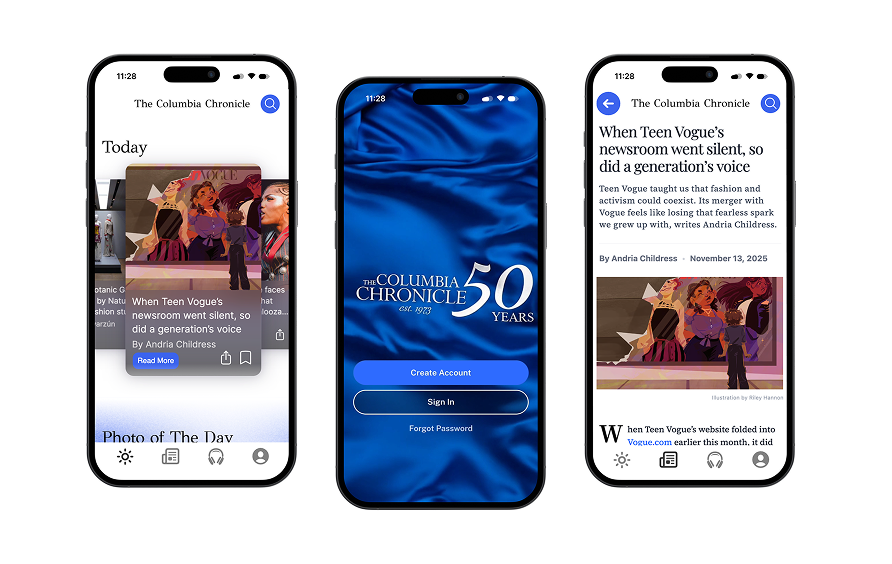
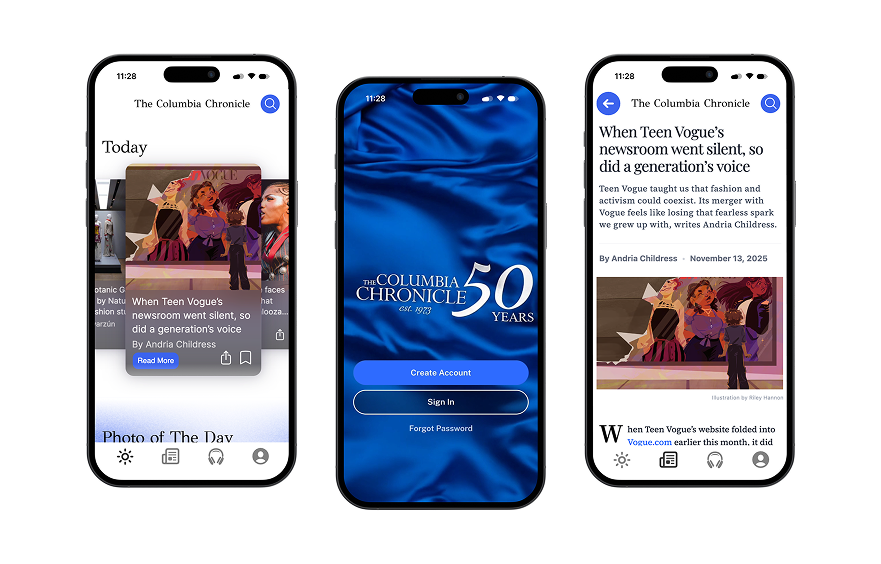
Mobile polish: center Chronicle card image, thin hamburger lines

Changed region(s): [[0.3678, 0.0904, 0.9194, 0.9043], [0.0919, 0.0904, 0.3371, 0.8741], [0.4597, 0.3617, 0.4904, 0.3918]]

diff --git a/nav.js b/nav.js
@@ -14,9 +14,9 @@
     btn.setAttribute('aria-controls', links.id);
     btn.setAttribute('aria-label', 'Toggle menu');
     btn.innerHTML = '<svg class="nav__toggle-icon" viewBox="0 0 28 20" aria-hidden="true" focusable="false">' +
-      '<path d="M3.2 3 C 8 1.1, 20 1.1, 24.8 3 C 20 4.9, 8 4.9, 3.2 3 Z"/>' +
-      '<path d="M3.2 10 C 8 8.1, 20 8.1, 24.8 10 C 20 11.9, 8 11.9, 3.2 10 Z"/>' +
-      '<path d="M3.2 17 C 8 15.1, 20 15.1, 24.8 17 C 20 18.9, 8 18.9, 3.2 17 Z"/>' +
+      '<path d="M3.2 3 C 8 2.15, 20 2.15, 24.8 3 C 20 3.85, 8 3.85, 3.2 3 Z"/>' +
+      '<path d="M3.2 10 C 8 9.15, 20 9.15, 24.8 10 C 20 10.85, 8 10.85, 3.2 10 Z"/>' +
+      '<path d="M3.2 17 C 8 16.15, 20 16.15, 24.8 17 C 20 17.85, 8 17.85, 3.2 17 Z"/>' +
       '</svg>';
 
     nav.appendChild(btn);

diff --git a/styles.css b/styles.css
@@ -271,7 +271,7 @@ ul  { list-style: none; }
   fill: currentColor;
   /* Outline same color softens the path ends to read as rounded */
   stroke: currentColor;
-  stroke-width: 0.6;
+  stroke-width: 0.35;
   stroke-linejoin: round;
   stroke-linecap: round;
   transform-box: view-box;
